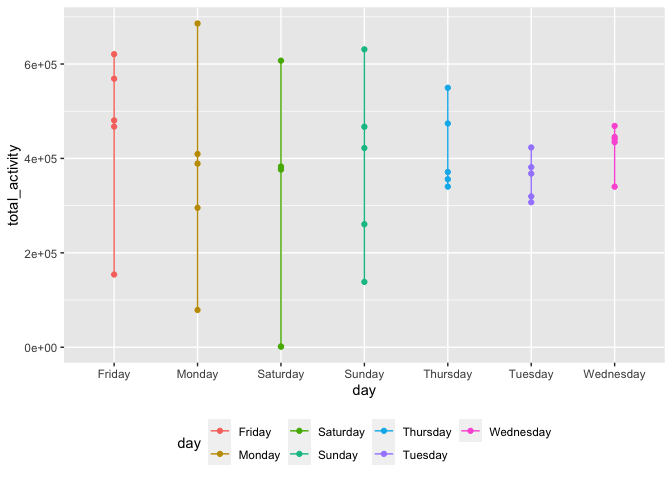
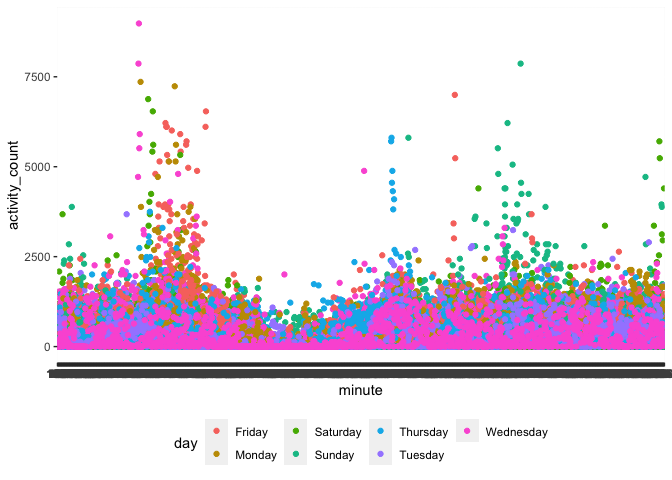
Problem 2 updates commit

diff --git a/p8105_hw3_sef2183.md b/p8105_hw3_sef2183.md
@@ -41,6 +41,19 @@ data("instacart")
 
 # Problem 2
 
+Below, the accelerometer data from `accel_data.csv` is read in and the
+variable names are cleaned using `clean_names()`. Then, `pivot_longer()`
+is used to manipulate the dataset from wide to long format. To do this,
+all variable names beginning with “activity” (`activity_1` to
+`activity_1440`) were transformed into 2 different variables: one
+denoting the minute of the day and one denoting the activity measure.The
+variable names were changed to `minute` and the prefix “activity\_” was
+removed so that the variable values contained only the minute number,
+and the values were changed to `activity_count`, indicating the amount
+of activity read by the accelerometer during each 1 minute window.
+Finally, a new variable called `weekday_weekend` was created to indicate
+whether the day of the week is a weekday or a weekend day.
+
 ``` r
 accel_df = 
   read_csv("data/accel_data.csv") %>%
@@ -63,13 +76,23 @@ accel_df =
 
 ## Dataset description
 
--   The variables in the resulting dataset include:
+-   The variables in the resulting dataset include: `week`, `day_id`
+    (day count number), `day` (day of the week), `minute`,
+    `activity_count`, and `weekday_weekend` (either weekday or weekend)
 -   The resulting dataset contains 50400 rows/observations and 6
     columns/variables.
 
 ## Table of total activity over each day
 
-TOTAL FOR DAY ID OR DAY?
+Below, the tidied accelerometer dataset was aggregated across minutes
+using `group_by()` to group the data together by the `DAY_ID` variable.
+Then a `total_activity` variable was created by summing the
+`activity_count` variables for each 1 minute window throughout the day
+to indicate the total activity read by the accelerometer during each day
+of the study. Finally, only the relevant variables `day_id`, `week`,
+`day`, and `total_activity` were selected from the dataset using
+`select()` and a table was created to show the daily totals for each of
+the 35 days of the study using `kable()` from the `knitr` package.
 
 ``` r
 accel_df %>%
@@ -118,23 +141,59 @@ accel_df %>%
 |     34 |    5 | Tuesday   |      367824.00 |
 |     35 |    5 | Wednesday |      445366.00 |
 
--   THE TRENDS APPARENT ARE:
+-   It’s very difficult to see any trends that are apparent from this
+    table. I immediately noticed that the last 2 Saturdays in the study
+    (days 24 and 31) had a much lower total activity count than the
+    other days in the study. However, the previous Saturdays in the
+    study had relatively similar total activity counts to the rest of
+    the days in the study, so this isn’t a trend that can be seen
+    through the entire dataset. Visualization may be required to see any
+    trends, if they are apparent in this dataset.
 
 ## Plot of the 24-hour activity time courses for each day
 
+Below, a single panel-plot was created using `ggplot()` to show the
+24-hour activity time courses for each day, using color to indicate the
+day of the week. `group_by()` was used to group the data by day of the
+week, then `ggplot()` was called to create a scatterplot with `minute`
+on the x axis and `activity_count` (data read from the accelerometer in
+1 minute intervals) on the y axis.
+
 ``` r
 accel_df %>%
-  group_by(day_id, week, day) %>%
-  summarize(
-    total_activity = sum(activity_count)) %>% 
-  ggplot(aes(x = day, y = total_activity, color = day)) + 
-    geom_point() + geom_line() + 
-    theme(legend.position = "bottom")
+  group_by(day) %>%
+  ggplot(aes(x = minute, y = activity_count, color = day)) + geom_point() + 
+  theme(legend.position = "bottom")
 ```
 
 ![](p8105_hw3_sef2183_files/figure-gfm/problem%202%20plot-1.png)<!-- -->
 
--   PATTERNS AND CONCLUSIONS
+This plot shows the individual’s activity course throughout the entire
+1440 minutes within a 24-hour period for each day of the week throughout
+the 5 weeks if the study observation period. However, since there are so
+many minutes in a 24-hour period, the plot is messy and the values on
+the x axis are difficult to read. Even with this difficulty, it is still
+possible to see some patterns and trends in the data:
+
+-   For all days of the week, there are lower activity counts that can
+    be observed mid morning, at around 9:30am-10:30am (estimated,
+    because exact minutes can not be read on the x axis)
+-   On Tuesdays, the individual doesn’t appear to spend any minutes with
+    activity counts over 3750, indicating that the individual seems to
+    have less/lighter activity on Tuesdays.
+-   On Sundays, the individual has most of their high activity counts
+    later in the day compared to the other days of the week at around
+    5:00pm (estimated)
+-   On Thursdays, the individual has most of their high activity counts
+    around midday at around 1:00pm (estimated)
+-   On Fridays, the individual has most of their high activity counts
+    earlier in the day at around 5:00am (estimated), with some high
+    activity in the early afternoon as well at around 3:00pm (estimated)
+-   On Mondays and Wednesdays, the individual has most of their high
+    activity counts earlier in the day at around 5:00am (estimated).
+-   On Saturdays, the individual has most of their high activity counts
+    earlier in the day at around 5:00am (estimated) and a some at late
+    at night as well, at around 12:00am (estimated)
 
 # Problem 3
 
@@ -168,6 +227,24 @@ ny_noaa_df =
     tmin = tmin / 10,
     tmax = tmax / 10) # Ensure observations for temperature, precipitation, and snowfall are given in reasonable units?
 ```
+
+NOTE ABOUT THE SNOW VARIABLE FROM DISCUSSION BOARD
+
+As for the final plot, you should filter values based on the original
+definition of snowfall (i.e., using the original units). To that end,
+you might want to consider retaining both the original variable snow as
+well as your proposal for a variable with a more sensical unit. As long
+as you’re clear about how you label values and units in your
+visualizations, you should be good!
+
+Hello, Haochen!
+
+You should make a single plot for part (i) and a single plot for part
+(ii). Then, you should combine these two plots side by side into a
+single-panel exhibit; you can find a refresher on how to do that
+hereLinks to an external site.. For the first plot, you are correct that
+“vs” implies tmax should be on the vertical axis and that tmin should be
+on the horizontal axis.
 
 ## Dataset questions:
 
@@ -484,6 +561,24 @@ snowfall is \_\_\_\_\_\_\_\_\_. The reason is because
 
 Make a two-panel plot
 
+You should compute the average for max temperature for each station
+separately and then plot the two plots side by side.
+
+For this problem, you want to find the average of tmax for every unique
+combination of station ID, year, and month (perhaps consider grouping by
+these three variables to obtain the desired result). Then, you will want
+to construct two plots - one for January and one for July - that show
+the average maximum temperature (vertical axis) against years
+(horizontal axis) for every station.
+
+As you have all intuited, a scatterplot is way too busy to visualize all
+of these data. To give you an idea of a better option, consider
+something like a spaghetti plotLinks to an external site.. As Cathy also
+points out, it is going to be best to suppress the legend since there
+are so many possible labels for station ID. That’s okay, though, as we
+just want to see if there are any meaningful trends that can be teased
+out via the spaghetti plot.
+
 ``` r
 jan_tmax_p = ny_noaa_df %>%
   filter(month == "01") %>% 
@@ -506,12 +601,30 @@ jan_tmax_p + jul_tmax_p
 
 ![](p8105_hw3_sef2183_files/figure-gfm/problem%203%20max%20temp%20plots-1.png)<!-- -->
 
+ny_noaa_tidy %\>% filter( month %in% c(“January”,“July”)) %\>%
+group_by(month, year, id) %\>% summarize( tmax_mean = mean(tmax, na.rm =
+TRUE) ) %\>% ggplot(aes(x = year, y = tmax_mean, color = id)) +
+geom_bar(alpha = 0.5) + facet_grid(.\~month)
+
+2)  In your ggplot aesthetic call, you might consider replacing “color =
+    id” with “group = id”, as R could be struggling to come up with many
+    colors if there are a lot of unique stations in the dataset.
+
+<!-- -->
+
+3)  Relatedly, it might be better to use a line plot instead of a bar
+    plot, as there could be too many bars to display things properly.
+    Since our horizontal axis is time, a line plot is reasonable.
+
 -   There \[IS/IS NOT\] an observable interpretable structure
 -   There \[ARE/ARE NOT\] outliers
 
 ## Plot of tmax vs tmin for the full dataset (panel 1) and the distribution of snowfall values greater than 0 and less than 100 separately by year (panel 2)
 
 Make a two-panel plot showing
+
+We want to limit the values of snowfall to the criteria specified and
+then use ggplot to plot the distribution (density plot).
 
 ``` r
 i_p = ny_noaa_df %>%
